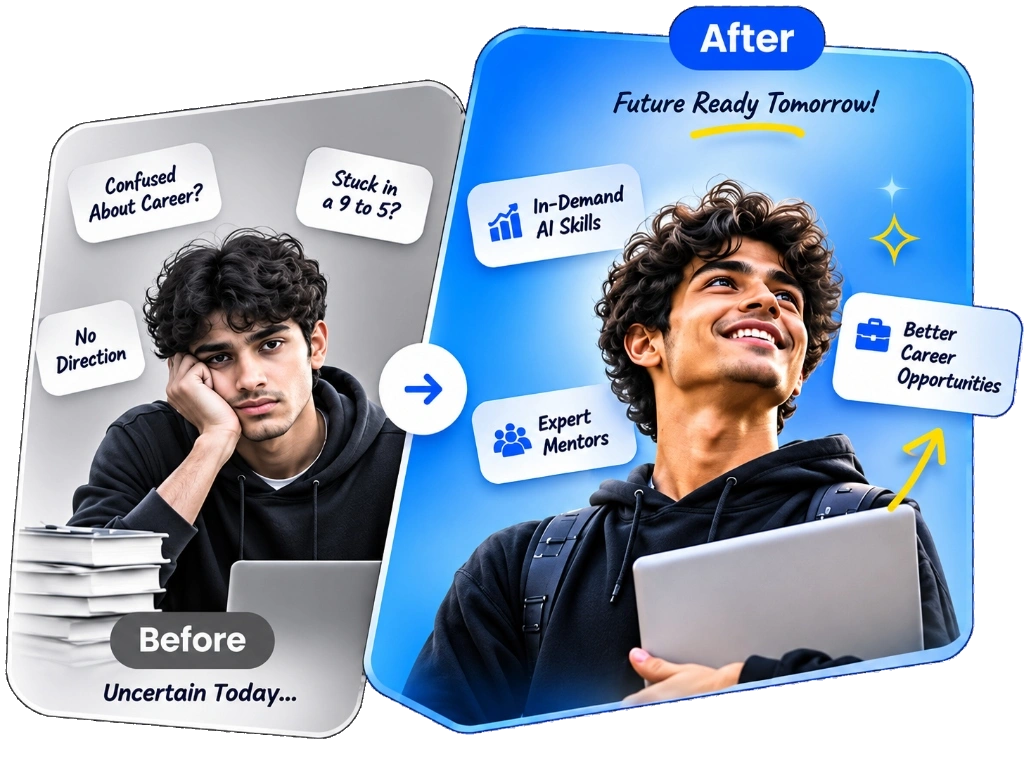
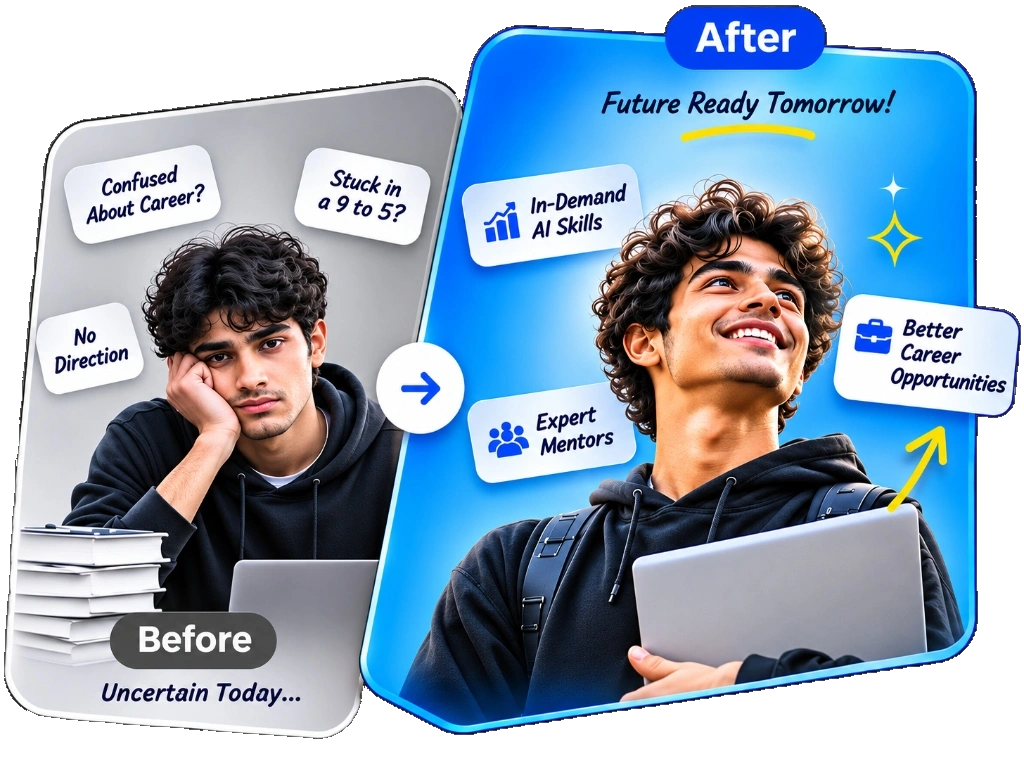
feat: updated visual with latest asset and cinematic drop shadow

diff --git a/app/templates/index.html b/app/templates/index.html
@@ -17,7 +17,7 @@
           src="{{ url_for('static', filename='images/career_transformation.webp') }}"
           alt="Datadrix Career Transformation"
           class="img-fluid d-block mx-auto"
-          style="max-width: 100%; height: auto; border-radius: 18px; box-shadow: 0 12px 35px rgba(0, 0, 0, 0.45);"
+          style="max-width: 100%; height: auto; filter: drop-shadow(0 16px 36px rgba(0, 0, 0, 0.55));"
         >
       </div>
     </div>
